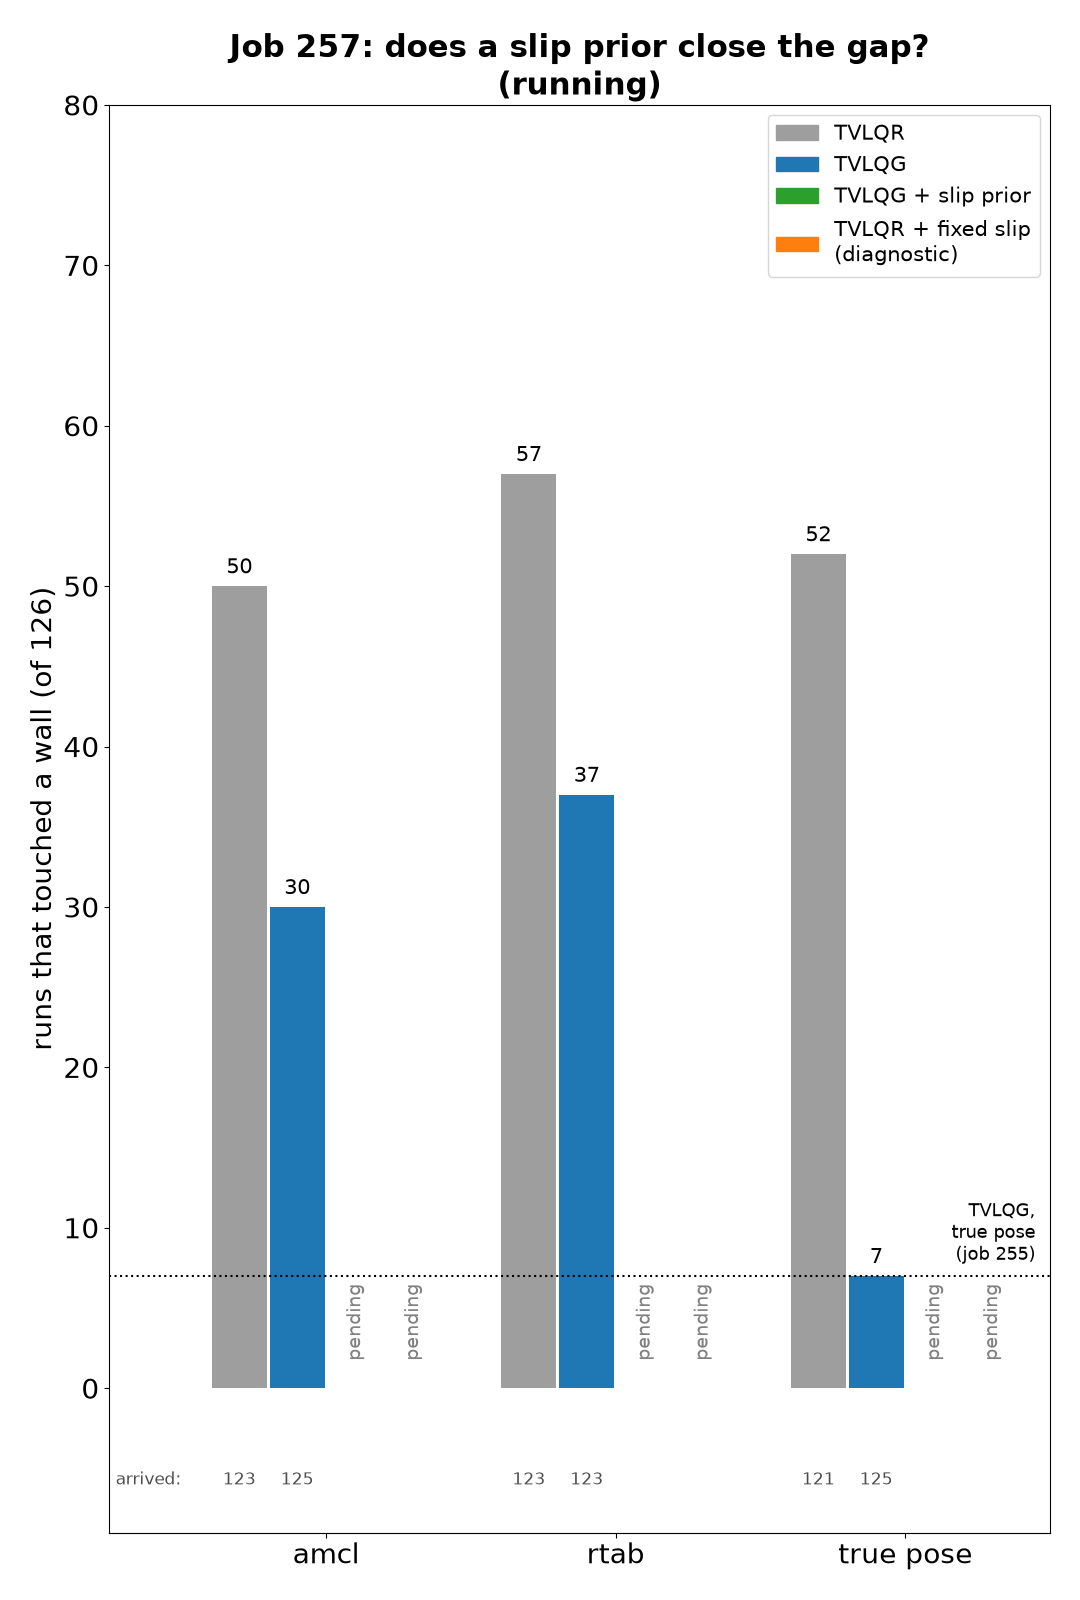
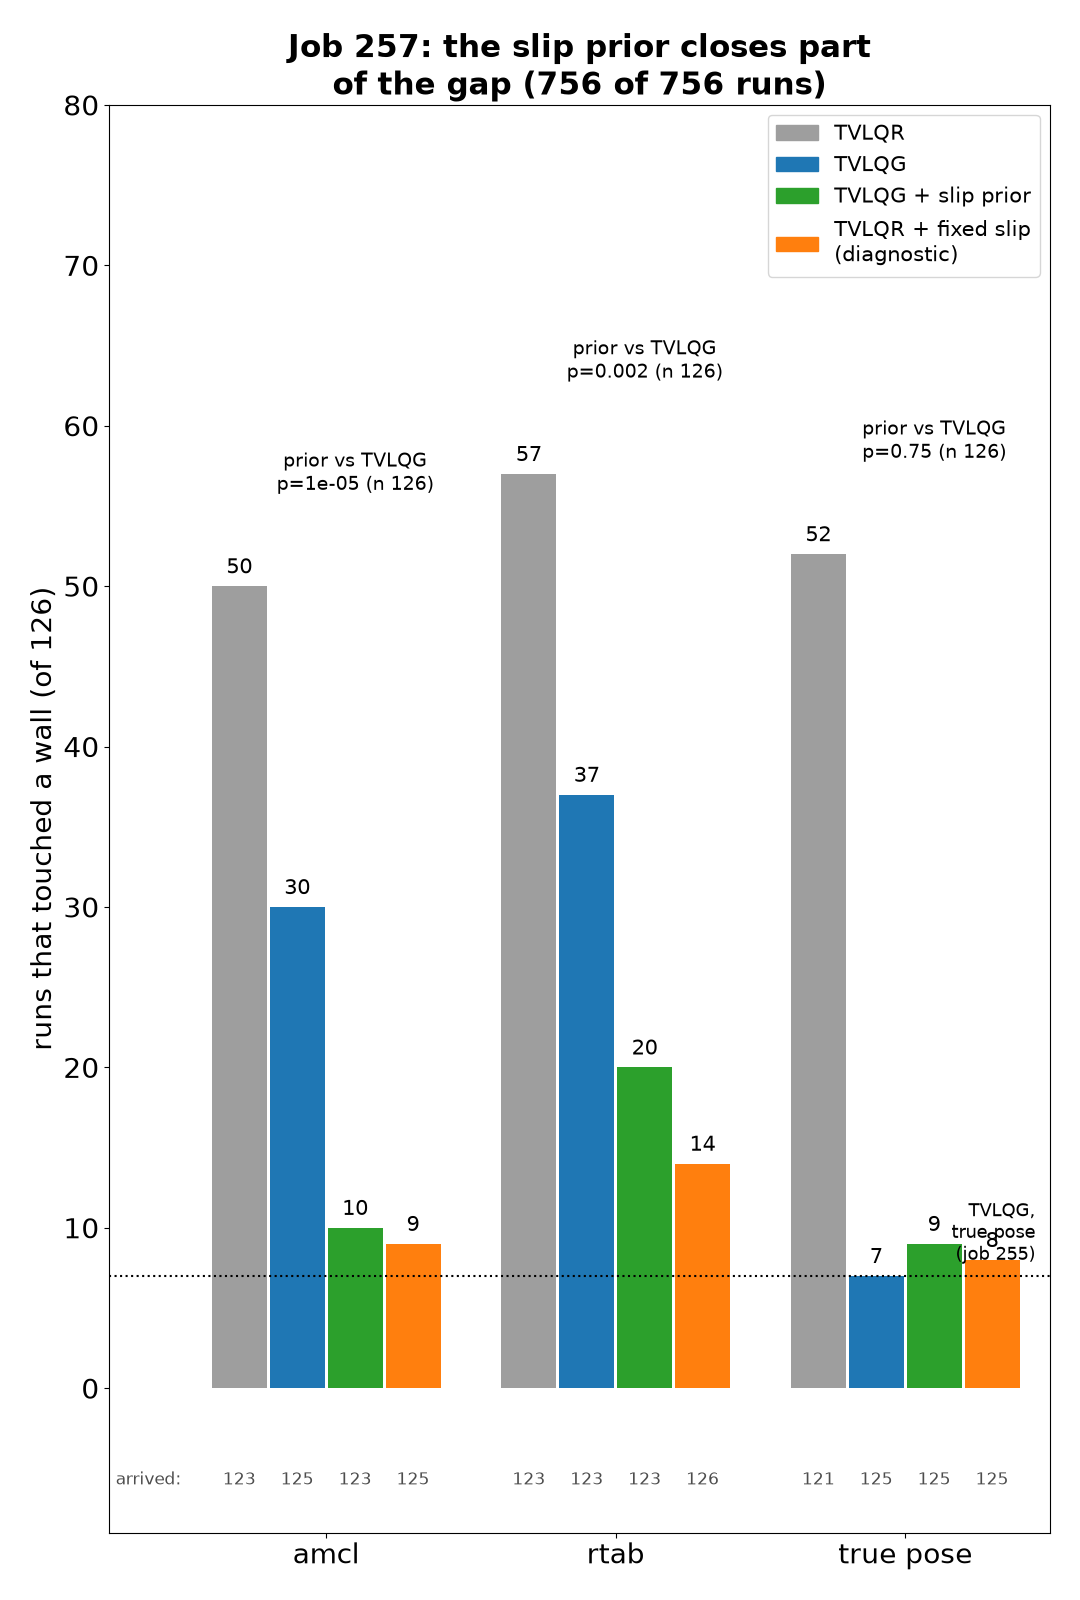
Add door overlays for sideslip prior arms

diff --git a/figures/2026-10-12/door_overlay/door_overlay.py b/figures/2026-10-12/door_overlay/door_overlay.py
@@ -14,7 +14,7 @@ jambs, so the door frame appears as a fuzzy aperture); every run's truth track t
 (thin, translucent); runs whose FIRST wall contact falls in the window in red, with the robot footprint at the contact
 moment. Contact = wall_overlap_s > 0, first contact from wall_first_t.
 
-usage: door_overlay.py [JOB:CELL:LABEL ...]   (default: the four arms below, mu 0.5)
+usage: door_overlay.py [--out=NAME] [JOB:CELL:LABEL ...]   (default: the four arms below, mu 0.5; NAME.png/.txt)
 """
 import glob, json, os, sys
 import numpy as np, yaml
@@ -28,7 +28,8 @@ from scipy.ndimage import distance_transform_edt
 HERE = os.path.dirname(os.path.abspath(__file__)); R = os.path.abspath(os.path.join(HERE, "../../.."))
 RD = os.path.join(R, "run_data")
 DOOR_CLEAR, W, HL, HW = 0.60, 2.5, 0.315, 0.2925   # HL/HW: pmp_planner footprint half length / width (plan_check.py)
-ARMS = sys.argv[1:] or ["2026-10-12_job255_steerable:TR:TVLQR, true pose",
+OUT = next((a[6:] for a in sys.argv[1:] if a.startswith("--out=")), "door_overlay")
+ARMS = [a for a in sys.argv[1:] if not a.startswith("--out=")] or ["2026-10-12_job255_steerable:TR:TVLQR, true pose",
                         "2026-10-12_job255_steerable:T:TVLQG, true pose",
                         "2026-10-12_job255_steerable:Q0:TVLQG, amcl",
                         "2026-10-12_job256_steerable-rtab:RQ:TVLQG, rtab"]
@@ -137,6 +138,6 @@ np.atleast_1d(axs)[-1].set_xlabel("along the plan through the door (m); robot en
 fig.suptitle("All door passages overlaid in the door's frame\n(mu 0.5 patches, 42 plans x 3 seeds; red = wall hit + robot outline)",
              fontsize=21, fontweight="bold")
 fig.tight_layout()
-fig.savefig(os.path.join(HERE, "door_overlay.png"), dpi=110)
-open(os.path.join(HERE, "door_overlay.txt"), "w").write("\n".join(summary) + "\n")
+fig.savefig(os.path.join(HERE, OUT + ".png"), dpi=110)
+open(os.path.join(HERE, OUT + ".txt"), "w").write("\n".join(summary) + "\n")
 print("\n".join(summary))

diff --git a/figures/2026-10-12/phone_dashboard/dashboard.py b/figures/2026-10-12/phone_dashboard/dashboard.py
@@ -43,7 +43,7 @@ def sign_p(A, B):
 
 
 def ptxt(p):
-    return f"p={p:.0e}" if p < 1e-3 else f"p={p:.2f}"
+    return f"p={p:.0e}" if p < 1e-3 else f"p={p:.3f}" if p < 0.01 else f"p={p:.2f}"
 
 
 def save(fig, name):
